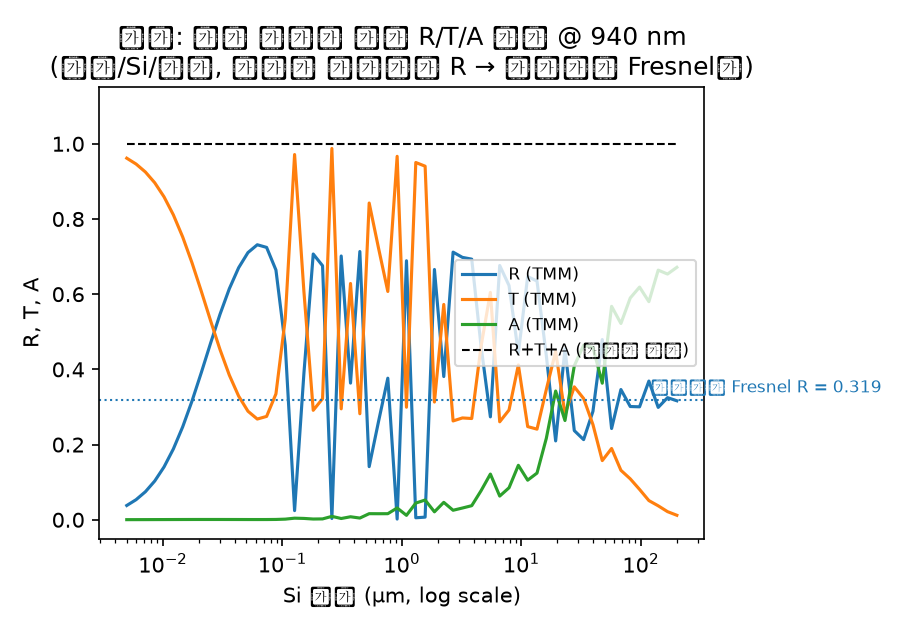
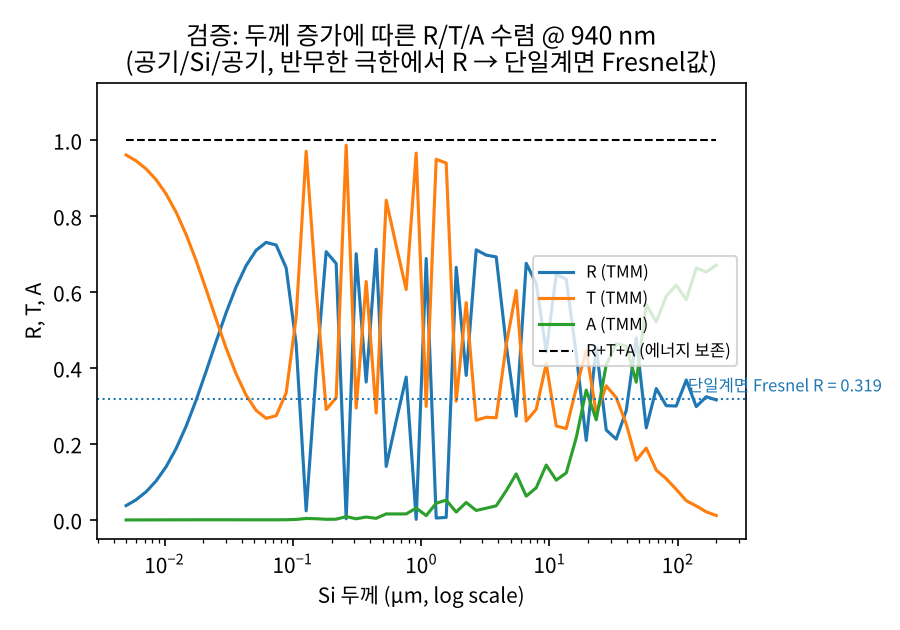
2주차 검증 그림 한글 글꼴 깨짐 수정
make_validation_figure.py가 NanumGothic으로 고정돼 있어 나눔 폰트가 없는
환경에서 한글이 □로 깨졌다. sweep_thickness.py와 같은 방식으로
맑은 고딕 → 나눔 → Noto CJK → AppleGothic 순으로 찾도록 바꾸고
figA, figB를 다시 그렸다 (데이터·계산 변경 없음).

Claude-Session: https://claude.ai/code/session_015GtkaA2zrEcn8kjW1cStXp

diff --git a/scripts/make_validation_figure.py b/scripts/make_validation_figure.py
@@ -20,7 +20,14 @@ import matplotlib.font_manager as fm
 import glob
 for _p in glob.glob("/usr/share/fonts/truetype/nanum/NanumGothic*.ttf"):
     fm.fontManager.addfont(_p)
-plt.rcParams["font.family"] = "NanumGothic"
+# 한글 폰트: Windows=맑은 고딕, 없으면 나눔/Noto CJK/Mac 순으로 탐색 (sweep_thickness.py와 같은 방식)
+# 예전에는 NanumGothic으로 고정해서, 나눔 폰트가 없는 Windows에서 한글이 □로 깨졌다.
+_names = {f.name for f in fm.fontManager.ttflist}
+for _fam in ("Malgun Gothic", "NanumGothic", "Noto Sans CJK KR", "Noto Sans CJK", "AppleGothic"):
+    _hit = sorted(n for n in _names if n.startswith(_fam))
+    if _hit:
+        plt.rcParams["font.family"] = _hit[0]
+        break
 plt.rcParams["axes.unicode_minus"] = False
 
 from tmm import tmm_normal_incidence
